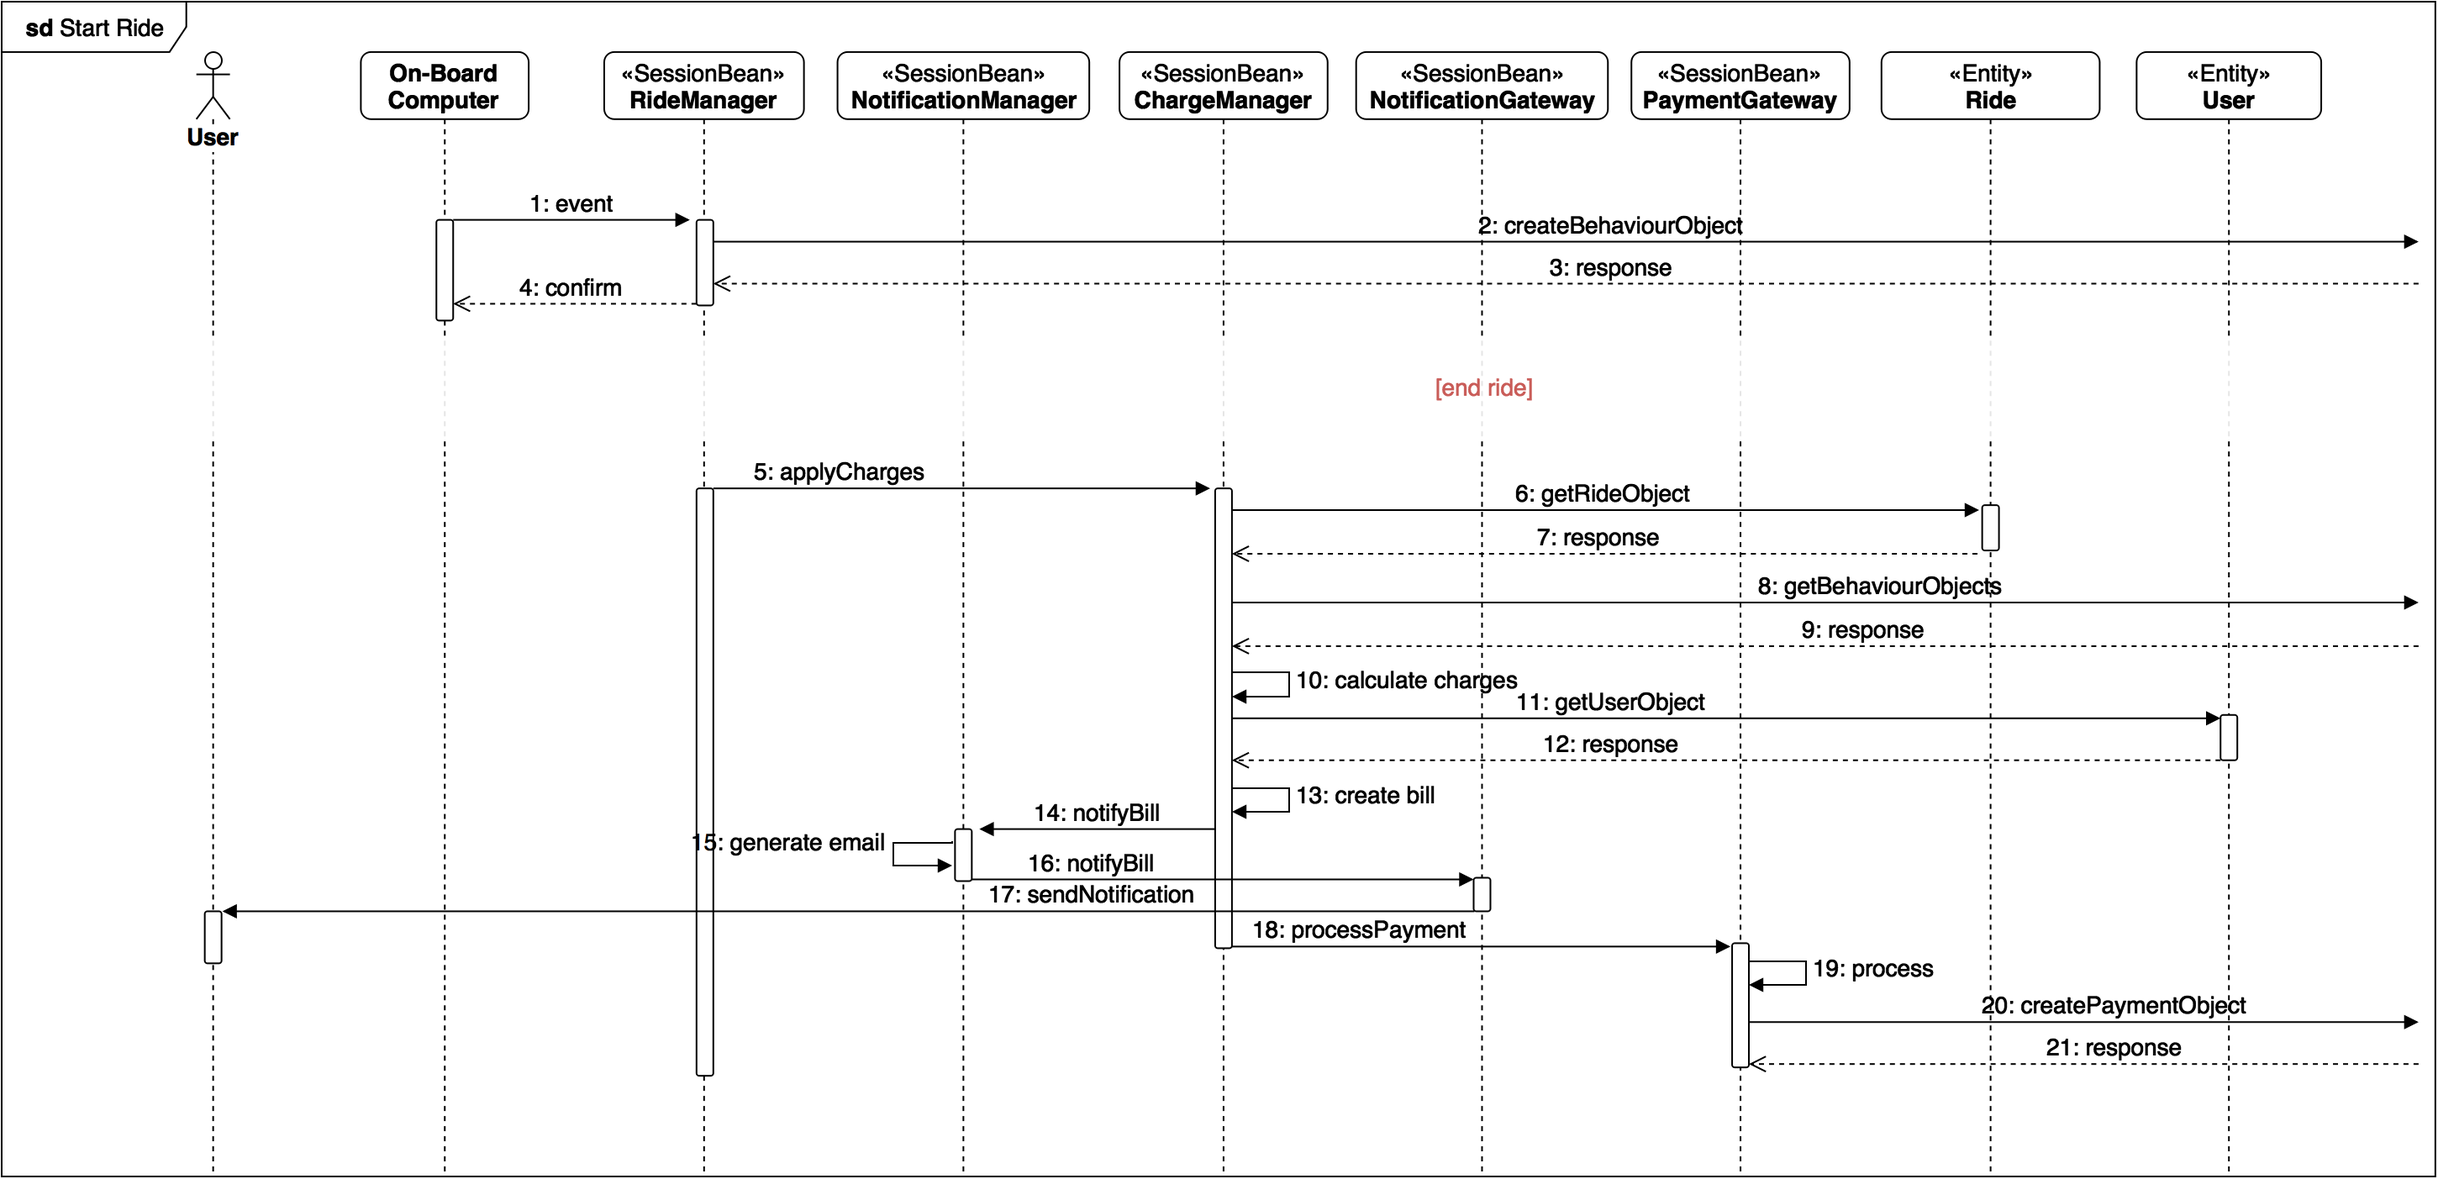
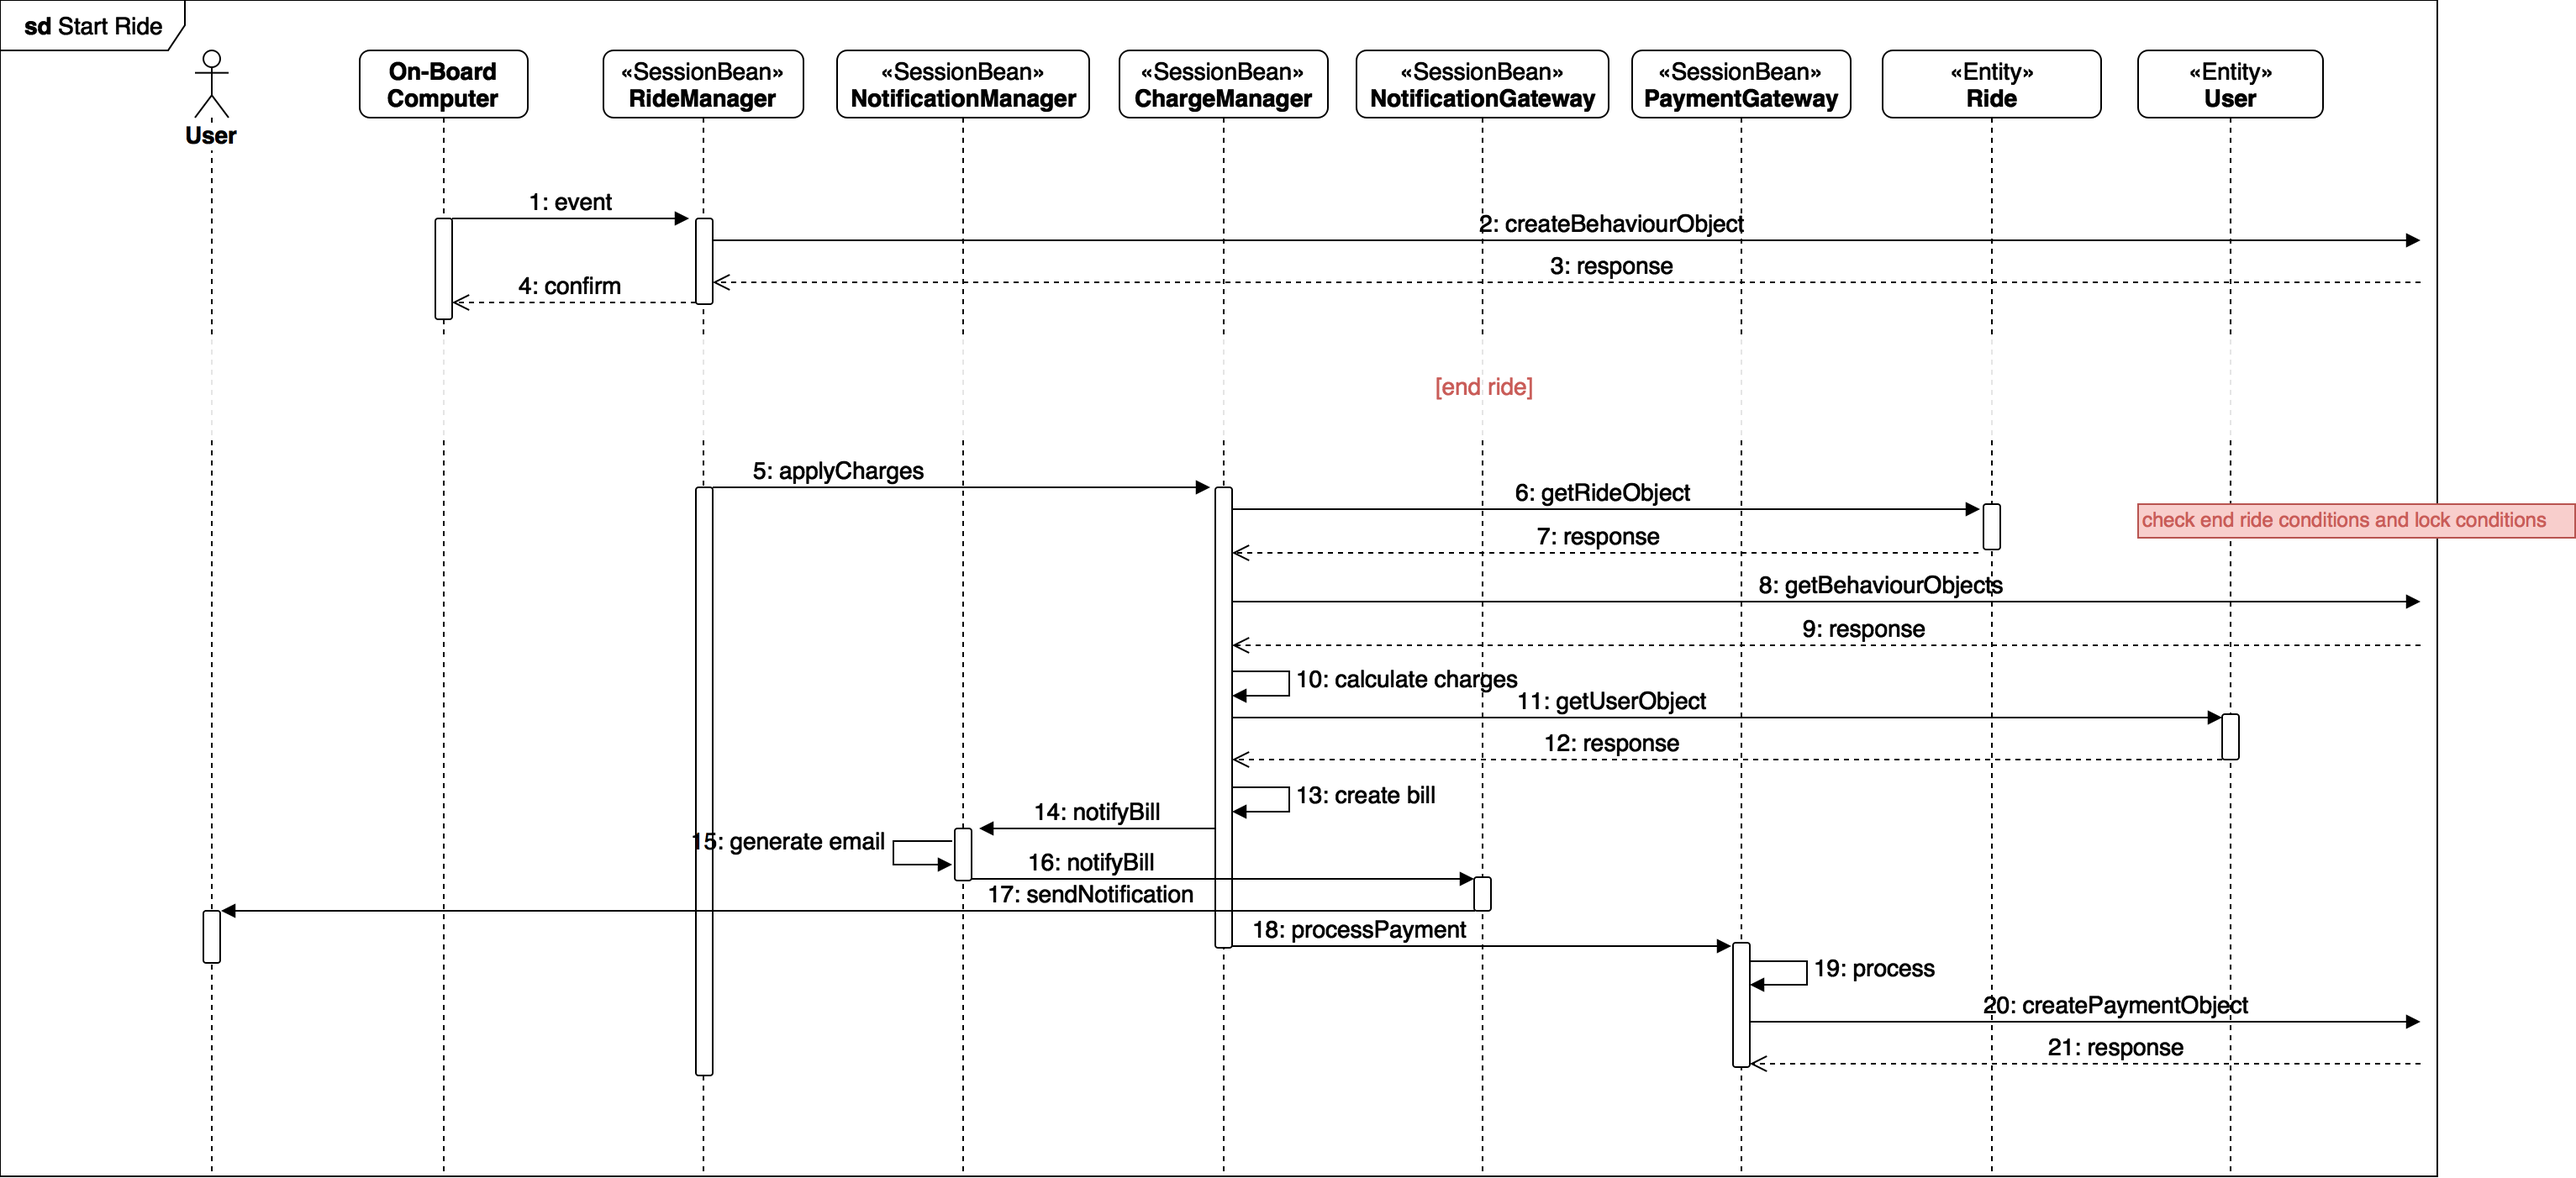
Updates in DD

diff --git a/DD/contents/Architectural_design/component_view.tex b/DD/contents/Architectural_design/component_view.tex
@@ -46,7 +46,7 @@ User,Vehicle, Location, Safe Area, Charging Station, Reservation, Ride, Behaviou
 \begin{itemize} 
 	\item{User (\underline{taxcode}, \textit{Location}, e-mail, password, driving\_license\_number, name, surname, address, phone number, card\_number, expiration\_date, security\_code, locked)}
 	\item{Vehicle (\underline{ID}, \textit{Location}, plate, type, odometer, battery\_level, status, num\_of\_seats, num\_of\_passengers) }
-	\item{Location (\underline{coordinates})}	
+	\item{Location (\underline{ID}), longitude, latitude}	
 	\item{Safa Area (\underline{ID}, \textit{Location})} %type A=Safe Area, B=Charging Station, C=both, Add an ID!!!
 	\item{Charging Station(\underline{ID}, \textit{Location},\textit{ID\_SafeArea})}
 	\item{Reservation (\underline{ID}, \textit{ID\_User}, \textit{ID\_Vehicle}, start\_date\&time, end\_date\&time, expired)}

diff --git a/DD/contents/Appendix_C.tex b/DD/contents/Appendix_C.tex
@@ -3,4 +3,7 @@ These sections will be eventually redacted during future post-release updates in
 	\begin{itemize}
 		\item \textbf{v1.1} MVC and JAX-RS entries have been fixed
 		\item \textbf{v1.1} Add Notification Handler in architecture diagram
+		\item \textbf{v1.2} Update the ER schema and the relation schema associated with it
+		\item \textbf{v1.2} Figure 2.8:"Sequence diagram for the reservation’s expiration" has been fixed
+		\item \textbf{v1.2} Figure 2.12:"Sequence diagram for the charges computation and application" has been fixed
 	\end{itemize}

diff --git a/DD/DD.tex b/DD/DD.tex
@@ -47,7 +47,7 @@
 \def \worktimeNicola {20}
 \def \worktimeGiacomo {20}
 \FPupn{worktimeTotal}{worktimeNicola worktimeGiacomo + 0 round}
-\FPupn{version}{1.1}
+\FPupn{version}{1.2}
 
 
 \begin{document}
